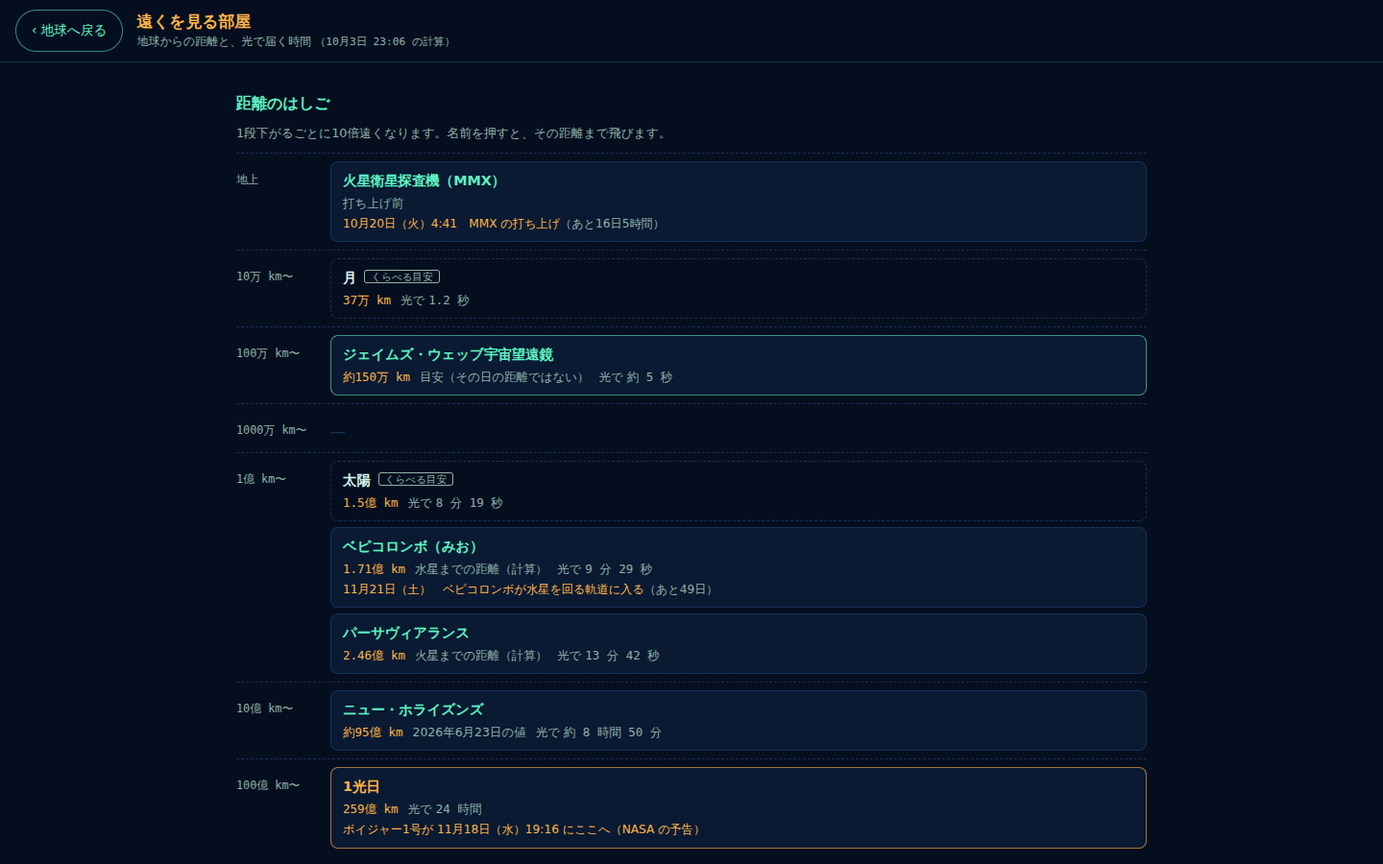
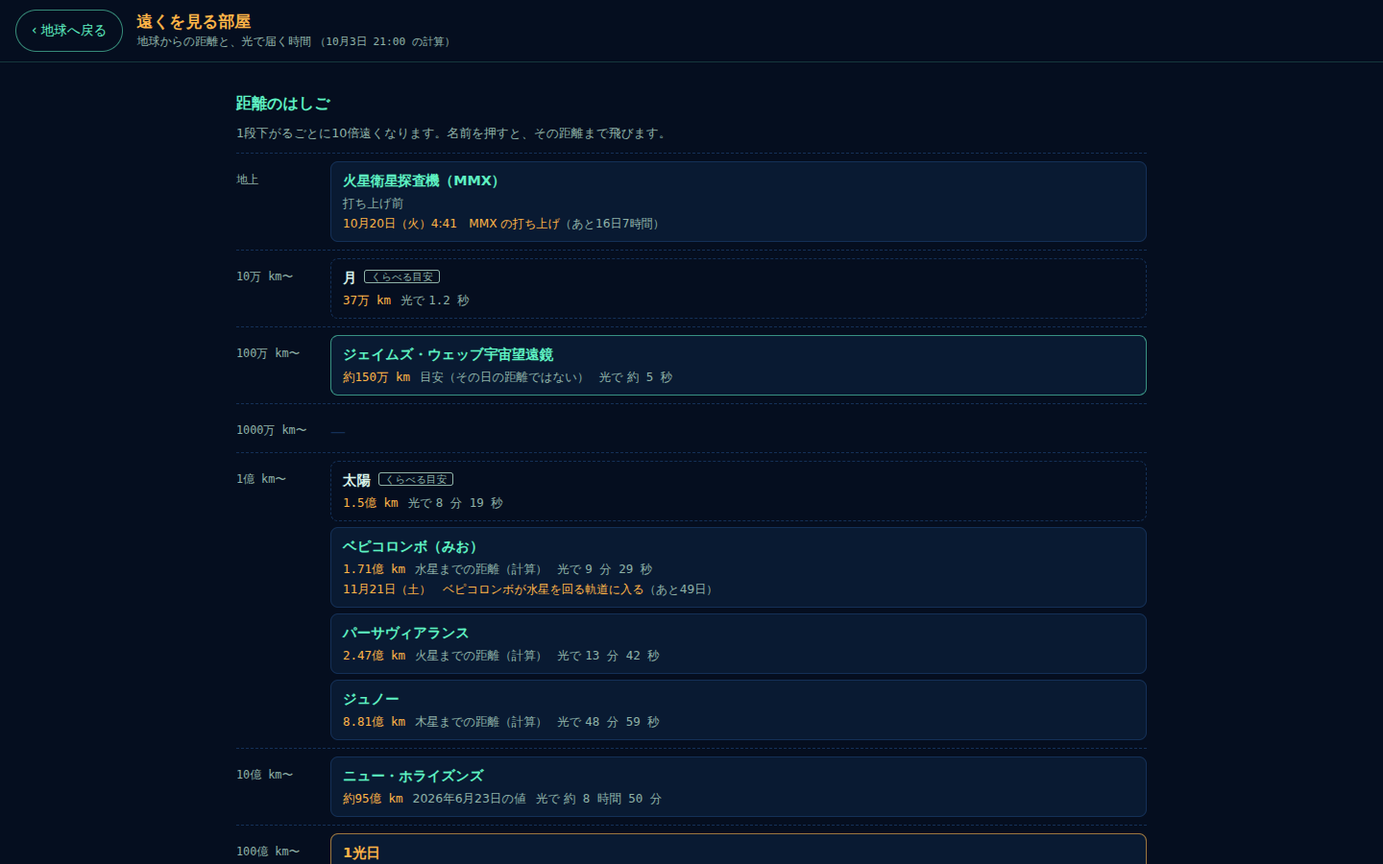
遠くを見る部屋：ジュノーのカードを追加（C17 を照合）、公式3Dモデルの調査（C18）を照合して Codex への模型の依頼文を作成
C17（ジュノー）
- 報告を research/chappy/2026-10-04-c17-juno.md に保存。引用5件を公式ページで照合し、すべて一致
- 入れたもの：curation/probes/juno.json
  - 状態＝運用中：2026-05-01 に衛星テーベを撮影した記録（NASA Photojournal、5/5 公開）
  - いま・任務・運用・打ち上げ・距離：NASA のジュノーのページ（2026-07-04 の更新で「木星を回って10年」）
  - 距離は木星までの距離（ブラウザで計算）
- 入れなかったもの
  - 運用を終える予定の日（公式のページは「2025年9月まで」のままで、新しい日付が見つからない）
  - NASA Astrobiology のページ（日付のない説明なので、運用中の根拠に使わない）
- web/data/probes.json を更新（npm run sync:web）

C18（公式3Dモデル）
- 報告を research/chappy/2026-10-04-c18-3d-models.md に保存。引用21件・ファイルの大きさ・日付を照合し、すべて一致
- 報告にない点
  - NASA の利用の決まりは、3Dモデルのデータも対象にしている（教育・情報の Web やシミュレーションに使ってよい）
  - ESA の「3D spacecraft model」は、外のサイトで見るだけのもの
- 機体ごとの判断の案：10機とも Codex にコードで作ってもらう
  - 依頼文：prompts/src/codex-far-room-models.md → prompts/codex-far-room-models.md
  - 公式の3Dファイルは使わない。ロゴ・旗・文字なし
- カードには入れない（報告のカードJSONは「なし」）

記録
- research/verification/2026-10-04-c17-c18.md
- タスク013・ロードマップ・far-room-feel.md §7-4・§7-6
- 画面：はしご（PC）を差し替え、ジュノーのカード（スマホ）を追加

Claude-Session: https://claude.ai/code/session_018QcvrPpxiBmPj3b7sKfVgy

diff --git a/prompts/codex-far-room-models.md b/prompts/codex-far-room-models.md
@@ -1,0 +1,146 @@
+<!-- このファイルは scripts/build-prompts.mjs が作る。直接編集せず prompts/src/ を直す -->
+
+# 依頼：VOYASCOPE「遠くを見る部屋」の探査機の模型（9つ・three.js のコードで作る）
+
+## どんなアプリか
+
+VOYASCOPE は、地球のまわりの衛星・宇宙船の「いま」を、観測端末風の画面で見る日本語の Web アプリです。対象は中高生で、非公式のファンメイド作品です。
+
+「遠くを見る部屋」では、地球から探査機のところまで、光より速く飛んでいきます。天体のまわりではスイングバイをして、探査機のすぐそばを通ります。そのときに、探査機の模型を大きく見せます。
+
+いまの試作には、模型が4つあります（ウェッブ・ベピコロンボ・ニュー・ホライズンズ・パーサヴィアランス）。どれも形が大まかです。今回は、**10機ぶんの模型を、ひと目でどの機体か分かる細かさで**作ってほしいです。
+
+## 作る模型（9つ）
+
+ボイジャー1号と2号は同じ形なので、模型は1つです。
+「分かっていること」は公式のページに書かれていることです。比率はこれに合わせてください。書いていないところは、公式のページの写真を見て決めてください。
+
+| キー | 画面の名前 | 形を見る公式のページ | 分かっていること（出典） |
+|---|---|---|---|
+| `jwst` | ジェイムズ・ウェッブ宇宙望遠鏡 | https://science.nasa.gov/mission/webb/ ・ https://science.nasa.gov/3d-resources/james-webb-space-telescope-a/ | 主鏡は 6.5m（3D のページ）。大きな、いくつもに分かれた、金色の鏡。5層の日よけ（ミッションのページ） |
+| `parker-solar-probe` | パーカー・ソーラー・プローブ | https://science.nasa.gov/mission/parker-solar-probe/ ・ https://science.nasa.gov/resource/parker-solar-probe-3d-model/ | 太陽の熱から守る、厚さ11.43cm の炭素の盾（ミッションのページ） |
+| `bepicolombo` | ベピコロンボ（みお） | https://www.esa.int/Science_Exploration/Space_Science/BepiColombo/Latest_updates_BepiColombo_s_arrival_at_Mercury ・ https://www.esa.int/ESA_Multimedia/Images/2018/10/BepiColombo_arrival_at_Mercury_timeline ・ https://www.esa.int/Science_Exploration/Space_Science/BepiColombo/BepiColombo_factsheet ・ https://mio.isas.jaxa.jp/mission/ | **いまの姿**：運ぶための推進部（MTM）は 2026年9月3日に切り離した。いまは ESA の周回機（MPO）と JAXA の「みお」が重なっている。12月9〜10日に MPO とみおが分かれる（最新情報のページ）。みおは日よけ（MOSIF）の中に入っている（到着の時刻表のページ）。大きさ：MPO は 2.4×2.2×1.7m、放熱板の幅 3.7m、太陽電池の翼（広げたとき）7.5m。みおは直径1.8m・高さ1.1m（factsheet） |
+| `perseverance` | パーサヴィアランス | https://science.nasa.gov/mission/mars-2020-perseverance/ ・ https://science.nasa.gov/3d-resources/mars-2020-perseverance-rover/ | 火星の地面を走るローバー。マストの根元にアメリカの旗の板がある → **旗は付けない**。ヘリコプター（インジェニュイティ）は「火星までの旅のあいだ、おなかに付けていた」とある → **付けない** |
+| `mmx` | 火星衛星探査機（MMX） | https://www.mmx.jaxa.jp/ ・ https://www.mmx.jaxa.jp/gallery/ | 往路・探査・復路の3つのモジュールでできている（MMX のページ） |
+| `hayabusa2` | はやぶさ２ | https://www.isas.jaxa.jp/missions/spacecraft/current/hayabusa2 ・ https://www.hayabusa2.jaxa.jp/ | 2020年12月に地球へ戻ったあと、カプセルを切り離して、また旅に出た → **カプセルは付けない**（ISAS のページ） |
+| `juno` | ジュノー | https://science.nasa.gov/mission/juno/ ・ https://science.nasa.gov/resource/juno-3d-model/ | 六角形の本体（高さ・幅とも約3.5m）。太陽電池の翼が3枚で、それぞれ本体から約9m。全体の幅は20m より大きい。「3枚羽の扇風機」のような形。1分に2回まわっている（ミッションのページ） |
+| `new-horizons` | ニュー・ホライズンズ | https://science.nasa.gov/mission/new-horizons/ ・ https://science.nasa.gov/resource/new-horizons-3d-model/ | 円筒形の原子力電池（RTG）を1つ持っている（ミッションのページ） |
+| `voyager` | ボイジャー1号・2号 | https://science.nasa.gov/mission/voyager/voyager-1/ ・ https://science.nasa.gov/resource/voyager-3d-model/ | 原子力電池（RTG）3つを、ブーム（腕）に重ねて並べている（ボイジャー1号のページ）。ゴールデンレコードを付けるときは、金色の円盤だけにする（絵や文字は描かない） |
+
+## 作り方の決まり（必ず守る）
+
+### 権利と表示
+
+- **公式の3Dファイルを使わない**：GLB・glTF・USDZ・STL・BDS などを、読み込まない・変換しない・形をなぞらない
+- **図面を写さない**：MMX の簡易6面図などの、寸法や線を写し取らない
+- 公式の写真・説明・回して見られるページは、おおまかな形と色の手がかりとして**見るだけ**。箱・円柱・板・皿などの基本の形を組み合わせて、自分で作る
+- **ロゴ・旗・記章・ミッションのマーク・文字・数字を付けない**。NASA・ESA・JAXA・メーカーなど、どの組織のものも
+- 見たページの URL を、模型ごとに `userData.refs` に入れる。ページを見られなかったときは、`userData.refs` を空にして、説明にそう書く
+- 想像で足したところ（写真で見えなかった裏側など）は、`userData.guessed` に短く書く
+- 「公式の模型」「NASA 公認」と思わせる書き方をしない
+
+### 形と大きさ
+
+- **three.js r128 の本体の機能だけ**で作る。`examples/` にあるもの（GLTFLoader・BufferGeometryUtils・RoundedBoxGeometry など）は使わない
+- 形を作る関数は、`THREE` を引数で受け取る。`<script>` で読む three.min.js でも、モジュール版でも動くように
+- 向き：+Y が上。いちばん見栄えのする斜めの向きを、`userData.pose = [x, y, z]`（ラジアン）に入れる
+- 大きさ：模型の中心を原点にして、いちばん長い辺が 2 になるようにする（アプリの側でも、もう一度そろえる）
+- 比率：上の表の大きさに合わせる。表にないところは、写真の見た目に合わせる
+- 動かす部分
+  - ジュノー：回る軸を `userData.spinAxis`（`[x, y, z]`）に入れる。回すのはアプリの側でする
+  - ベピコロンボ：`userData.parts = { mpo, mosif, mio }`（それぞれ `THREE.Group`）。いまの姿は、MOSIF の中にみおが入って、MPO と重なった形。分かれたあとの見せ方は、そのときに公式の発表を確かめてアプリの側で決めるので、3つを別々に動かせるようにしておく
+  - MMX：`userData.parts = { outbound, explore, return }`（往路・探査・復路のモジュール。それぞれ `THREE.Group`）
+
+### 見た目
+
+- 色はアプリに合わせる：navy `#050e1f`〜`#143057`・mint `#5ef2c2`・amber `#ffb547`・text `#d9f4ea`・text-dim `#8fb3a8`
+- **共通の材質**：`makeKit(THREE)` で1回だけ作り、9つの模型で使い回す（模型ごとに材質を作らない）
+  - 金（断熱材。細かいしわ）・銀（金属）・白・黒・濃い紺・太陽電池（濃い青のセル）・鏡（ウェッブの主鏡。金の反射）
+  - テクスチャは、ブラウザの中で canvas に描く小さなもの（128×128 まで）だけ。画像のファイルは使わない
+- 光：アプリと同じ当て方で確かめる（確認用のページにも、この設定を入れる）
+  - renderer：`outputEncoding = THREE.sRGBEncoding`・`toneMapping = THREE.ACESFilmicToneMapping`・`toneMappingExposure = 1.1`
+  - カメラに付ける光：環境光 `0xd9f4ea` 強さ 0.24。平行光 `0xd9f4ea` 1.7（位置 -3, 5, 7）・`0xffb547` 1.5（5, 2, -4）・`0x5ef2c2` 0.25（-6, -2, 1）
+  - 背景：`#050e1f`
+- いまの試作の模型は、リポジトリの `docs/design/far-room-visual-merged.html` の `makeKit`・`webbModel` などにある。見られるときは参考にしてよい（見られなくても作れるように、決まりはこの依頼文に全部書いた）
+
+### 軽さ（スマホで1秒60コマ）
+
+- 三角形：1つの模型で 30,000 まで（目安は 10,000〜20,000）
+- 部品（Mesh）の数：1つの模型で 120 まで。同じ部品がたくさんあるとき（太陽電池のセル・鏡のかけら・車輪など）は `InstancedMesh` を使う
+- ファイルの大きさ：9つ合わせて 60KB まで（gzip で 18KB くらい）
+- 作る時間：PC で1つ 15ms まで（確認用のページに表示する）
+- 使い終わった模型を片付ける関数 `disposeModel(group)`。形（geometry）だけを消し、共通の材質は消さない
+
+## 渡してほしいもの
+
+1. **`far-room-models.js`**（ES モジュール。1ファイル）
+
+   ```js
+   export function makeKit(THREE) { /* 共通の材質 */ }
+   export const MODELS = {
+     jwst, "parker-solar-probe": parker, bepicolombo, perseverance, mmx, hayabusa2, juno, "new-horizons": newHorizons, voyager,
+   }; // それぞれ (THREE, kit) => THREE.Group。group.userData に pose・refs・guessed（ジュノーは spinAxis、ベピコロンボと MMX は parts も）
+   export function disposeModel(group) { /* 形だけ消す */ }
+   ```
+
+   ボイジャー1号・2号は、どちらも `MODELS.voyager` を使う
+
+2. **`far-room-models.html`**（確認用。1つの HTML）
+   - 読むのは three.js r128（`https://cdnjs.cloudflare.com/ajax/libs/three.js/r128/three.min.js`）と `far-room-models.js` だけ
+   - 1つずつ大きく表示して、ゆっくり回す（動きを減らす設定 prefers-reduced-motion のときは回さない）
+   - 「前へ」「次へ」のボタン（44px 以上）と、← → キーで切り替える
+   - 画面に出すもの：画面の名前（上の表）・三角形の数・部品の数・作る時間
+   - 「形の目安です。公式の模型ではありません」と「※非公式ファンメイド作品です。宇宙機関・運用者とは関係ありません」を書く
+   - スマホ（390×844）と PC（1440×900）で崩れない。横にスクロールしない
+   - ローカルのサーバー（`npx serve` など）で開く前提でよい（モジュールはファイルを直接開くと読めないため）。開き方を説明に書く
+
+3. **説明**（日本語で15行くらい）：模型ごとに、何を手がかりにしたか・想像で足したところ・三角形の数
+
+## 比べ方（オーナーがスマホで見て決める）
+
+- ひと目で、どの機体か分かるか
+- 細かさ（いまの試作の4つより細かいか）
+- 9つの見た目がそろっているか
+- 軽さ（三角形・部品の数・作る時間）
+
+## プロジェクトのルール（RULES.md 全文）
+
+模型でも、このルールに沿ってください（とくに 1 の「公認を連想させるロゴや表現は使わない」）。
+
+# VOYASCOPE ルール
+
+このリポジトリに関わる人とAIは、作業前に必ずこのファイルを読むこと。
+AIへの依頼プロンプトには、冒頭にこのファイルを毎回貼ること。
+
+## 5つのルール
+
+1. **ファンメイドであることを明記する**
+   本アプリは非公式のファンメイド作品であり、JAXA・NASAをはじめとする宇宙機関・運用者とは関係がない。公認を連想させるロゴや表現は使わない。
+
+2. **軍事目的での使用を禁止する**
+   ライセンスで定める（`LICENSE_DRAFT.md` 参照、条文は確認後に確定）。
+
+3. **推測で業務内容や個人的なことを書かない**
+   カードの事実項目には、すべて出典URL（`source`）を付ける。出典のない記述はCIで落とす。任務が公表されていない機体は「非公開」（`undisclosed: true`）とし、推測で埋めない。
+
+4. **軍が関わる機体も、公開情報の範囲で表示する**
+   運用主体は事実として記載する。それを見て何を感じるかは、見る人に委ねる。
+
+5. **悪用が確認されたら公開を停止する**
+   このアプリを使った軍事行為、または誰かに被害をもたらす行為が確認された場合は、公開を停止する。
+
+## 人物の扱い（細則）
+
+- 載せるのは、公式プロフィールにある事実（経歴・役職・飛行記録）だけ
+- 家族のこと、私生活、個人SNSの投稿は扱わない
+- 能力値の格付けはしない。記録の数値は「実績バッジ」としてのみ見せる
+- 本人が言っていないセリフは作らない。キャッチコピーは機体にだけ付ける
+- 顔写真は当面使わない。写真は公式ページへのリンク先で見てもらう
+- 亡くなった方や事故に関わる記録は、ゲーム的な演出から外し、`memorial` として敬意をもって扱う
+
+## 情報源の優先順位
+
+公式発表（機関・運用者）＞ 公的データ（CelesTrak など）＞ 報道 ＞ SNS
+
+- SNS（Grok経由の速報を含む）は、更新のきっかけとしてだけ使う。公式ソースで確認できるまでカードには入れない
+- 情報が食い違ったら、公式ソースを優先する

diff --git a/prompts/src/codex-far-room-models.md b/prompts/src/codex-far-room-models.md
@@ -1,0 +1,107 @@
+# 依頼：VOYASCOPE「遠くを見る部屋」の探査機の模型（9つ・three.js のコードで作る）
+
+## どんなアプリか
+
+VOYASCOPE は、地球のまわりの衛星・宇宙船の「いま」を、観測端末風の画面で見る日本語の Web アプリです。対象は中高生で、非公式のファンメイド作品です。
+
+「遠くを見る部屋」では、地球から探査機のところまで、光より速く飛んでいきます。天体のまわりではスイングバイをして、探査機のすぐそばを通ります。そのときに、探査機の模型を大きく見せます。
+
+いまの試作には、模型が4つあります（ウェッブ・ベピコロンボ・ニュー・ホライズンズ・パーサヴィアランス）。どれも形が大まかです。今回は、**10機ぶんの模型を、ひと目でどの機体か分かる細かさで**作ってほしいです。
+
+## 作る模型（9つ）
+
+ボイジャー1号と2号は同じ形なので、模型は1つです。
+「分かっていること」は公式のページに書かれていることです。比率はこれに合わせてください。書いていないところは、公式のページの写真を見て決めてください。
+
+| キー | 画面の名前 | 形を見る公式のページ | 分かっていること（出典） |
+|---|---|---|---|
+| `jwst` | ジェイムズ・ウェッブ宇宙望遠鏡 | https://science.nasa.gov/mission/webb/ ・ https://science.nasa.gov/3d-resources/james-webb-space-telescope-a/ | 主鏡は 6.5m（3D のページ）。大きな、いくつもに分かれた、金色の鏡。5層の日よけ（ミッションのページ） |
+| `parker-solar-probe` | パーカー・ソーラー・プローブ | https://science.nasa.gov/mission/parker-solar-probe/ ・ https://science.nasa.gov/resource/parker-solar-probe-3d-model/ | 太陽の熱から守る、厚さ11.43cm の炭素の盾（ミッションのページ） |
+| `bepicolombo` | ベピコロンボ（みお） | https://www.esa.int/Science_Exploration/Space_Science/BepiColombo/Latest_updates_BepiColombo_s_arrival_at_Mercury ・ https://www.esa.int/ESA_Multimedia/Images/2018/10/BepiColombo_arrival_at_Mercury_timeline ・ https://www.esa.int/Science_Exploration/Space_Science/BepiColombo/BepiColombo_factsheet ・ https://mio.isas.jaxa.jp/mission/ | **いまの姿**：運ぶための推進部（MTM）は 2026年9月3日に切り離した。いまは ESA の周回機（MPO）と JAXA の「みお」が重なっている。12月9〜10日に MPO とみおが分かれる（最新情報のページ）。みおは日よけ（MOSIF）の中に入っている（到着の時刻表のページ）。大きさ：MPO は 2.4×2.2×1.7m、放熱板の幅 3.7m、太陽電池の翼（広げたとき）7.5m。みおは直径1.8m・高さ1.1m（factsheet） |
+| `perseverance` | パーサヴィアランス | https://science.nasa.gov/mission/mars-2020-perseverance/ ・ https://science.nasa.gov/3d-resources/mars-2020-perseverance-rover/ | 火星の地面を走るローバー。マストの根元にアメリカの旗の板がある → **旗は付けない**。ヘリコプター（インジェニュイティ）は「火星までの旅のあいだ、おなかに付けていた」とある → **付けない** |
+| `mmx` | 火星衛星探査機（MMX） | https://www.mmx.jaxa.jp/ ・ https://www.mmx.jaxa.jp/gallery/ | 往路・探査・復路の3つのモジュールでできている（MMX のページ） |
+| `hayabusa2` | はやぶさ２ | https://www.isas.jaxa.jp/missions/spacecraft/current/hayabusa2 ・ https://www.hayabusa2.jaxa.jp/ | 2020年12月に地球へ戻ったあと、カプセルを切り離して、また旅に出た → **カプセルは付けない**（ISAS のページ） |
+| `juno` | ジュノー | https://science.nasa.gov/mission/juno/ ・ https://science.nasa.gov/resource/juno-3d-model/ | 六角形の本体（高さ・幅とも約3.5m）。太陽電池の翼が3枚で、それぞれ本体から約9m。全体の幅は20m より大きい。「3枚羽の扇風機」のような形。1分に2回まわっている（ミッションのページ） |
+| `new-horizons` | ニュー・ホライズンズ | https://science.nasa.gov/mission/new-horizons/ ・ https://science.nasa.gov/resource/new-horizons-3d-model/ | 円筒形の原子力電池（RTG）を1つ持っている（ミッションのページ） |
+| `voyager` | ボイジャー1号・2号 | https://science.nasa.gov/mission/voyager/voyager-1/ ・ https://science.nasa.gov/resource/voyager-3d-model/ | 原子力電池（RTG）3つを、ブーム（腕）に重ねて並べている（ボイジャー1号のページ）。ゴールデンレコードを付けるときは、金色の円盤だけにする（絵や文字は描かない） |
+
+## 作り方の決まり（必ず守る）
+
+### 権利と表示
+
+- **公式の3Dファイルを使わない**：GLB・glTF・USDZ・STL・BDS などを、読み込まない・変換しない・形をなぞらない
+- **図面を写さない**：MMX の簡易6面図などの、寸法や線を写し取らない
+- 公式の写真・説明・回して見られるページは、おおまかな形と色の手がかりとして**見るだけ**。箱・円柱・板・皿などの基本の形を組み合わせて、自分で作る
+- **ロゴ・旗・記章・ミッションのマーク・文字・数字を付けない**。NASA・ESA・JAXA・メーカーなど、どの組織のものも
+- 見たページの URL を、模型ごとに `userData.refs` に入れる。ページを見られなかったときは、`userData.refs` を空にして、説明にそう書く
+- 想像で足したところ（写真で見えなかった裏側など）は、`userData.guessed` に短く書く
+- 「公式の模型」「NASA 公認」と思わせる書き方をしない
+
+### 形と大きさ
+
+- **three.js r128 の本体の機能だけ**で作る。`examples/` にあるもの（GLTFLoader・BufferGeometryUtils・RoundedBoxGeometry など）は使わない
+- 形を作る関数は、`THREE` を引数で受け取る。`<script>` で読む three.min.js でも、モジュール版でも動くように
+- 向き：+Y が上。いちばん見栄えのする斜めの向きを、`userData.pose = [x, y, z]`（ラジアン）に入れる
+- 大きさ：模型の中心を原点にして、いちばん長い辺が 2 になるようにする（アプリの側でも、もう一度そろえる）
+- 比率：上の表の大きさに合わせる。表にないところは、写真の見た目に合わせる
+- 動かす部分
+  - ジュノー：回る軸を `userData.spinAxis`（`[x, y, z]`）に入れる。回すのはアプリの側でする
+  - ベピコロンボ：`userData.parts = { mpo, mosif, mio }`（それぞれ `THREE.Group`）。いまの姿は、MOSIF の中にみおが入って、MPO と重なった形。分かれたあとの見せ方は、そのときに公式の発表を確かめてアプリの側で決めるので、3つを別々に動かせるようにしておく
+  - MMX：`userData.parts = { outbound, explore, return }`（往路・探査・復路のモジュール。それぞれ `THREE.Group`）
+
+### 見た目
+
+- 色はアプリに合わせる：navy `#050e1f`〜`#143057`・mint `#5ef2c2`・amber `#ffb547`・text `#d9f4ea`・text-dim `#8fb3a8`
+- **共通の材質**：`makeKit(THREE)` で1回だけ作り、9つの模型で使い回す（模型ごとに材質を作らない）
+  - 金（断熱材。細かいしわ）・銀（金属）・白・黒・濃い紺・太陽電池（濃い青のセル）・鏡（ウェッブの主鏡。金の反射）
+  - テクスチャは、ブラウザの中で canvas に描く小さなもの（128×128 まで）だけ。画像のファイルは使わない
+- 光：アプリと同じ当て方で確かめる（確認用のページにも、この設定を入れる）
+  - renderer：`outputEncoding = THREE.sRGBEncoding`・`toneMapping = THREE.ACESFilmicToneMapping`・`toneMappingExposure = 1.1`
+  - カメラに付ける光：環境光 `0xd9f4ea` 強さ 0.24。平行光 `0xd9f4ea` 1.7（位置 -3, 5, 7）・`0xffb547` 1.5（5, 2, -4）・`0x5ef2c2` 0.25（-6, -2, 1）
+  - 背景：`#050e1f`
+- いまの試作の模型は、リポジトリの `docs/design/far-room-visual-merged.html` の `makeKit`・`webbModel` などにある。見られるときは参考にしてよい（見られなくても作れるように、決まりはこの依頼文に全部書いた）
+
+### 軽さ（スマホで1秒60コマ）
+
+- 三角形：1つの模型で 30,000 まで（目安は 10,000〜20,000）
+- 部品（Mesh）の数：1つの模型で 120 まで。同じ部品がたくさんあるとき（太陽電池のセル・鏡のかけら・車輪など）は `InstancedMesh` を使う
+- ファイルの大きさ：9つ合わせて 60KB まで（gzip で 18KB くらい）
+- 作る時間：PC で1つ 15ms まで（確認用のページに表示する）
+- 使い終わった模型を片付ける関数 `disposeModel(group)`。形（geometry）だけを消し、共通の材質は消さない
+
+## 渡してほしいもの
+
+1. **`far-room-models.js`**（ES モジュール。1ファイル）
+
+   ```js
+   export function makeKit(THREE) { /* 共通の材質 */ }
+   export const MODELS = {
+     jwst, "parker-solar-probe": parker, bepicolombo, perseverance, mmx, hayabusa2, juno, "new-horizons": newHorizons, voyager,
+   }; // それぞれ (THREE, kit) => THREE.Group。group.userData に pose・refs・guessed（ジュノーは spinAxis、ベピコロンボと MMX は parts も）
+   export function disposeModel(group) { /* 形だけ消す */ }
+   ```
+
+   ボイジャー1号・2号は、どちらも `MODELS.voyager` を使う
+
+2. **`far-room-models.html`**（確認用。1つの HTML）
+   - 読むのは three.js r128（`https://cdnjs.cloudflare.com/ajax/libs/three.js/r128/three.min.js`）と `far-room-models.js` だけ
+   - 1つずつ大きく表示して、ゆっくり回す（動きを減らす設定 prefers-reduced-motion のときは回さない）
+   - 「前へ」「次へ」のボタン（44px 以上）と、← → キーで切り替える
+   - 画面に出すもの：画面の名前（上の表）・三角形の数・部品の数・作る時間
+   - 「形の目安です。公式の模型ではありません」と「※非公式ファンメイド作品です。宇宙機関・運用者とは関係ありません」を書く
+   - スマホ（390×844）と PC（1440×900）で崩れない。横にスクロールしない
+   - ローカルのサーバー（`npx serve` など）で開く前提でよい（モジュールはファイルを直接開くと読めないため）。開き方を説明に書く
+
+3. **説明**（日本語で15行くらい）：模型ごとに、何を手がかりにしたか・想像で足したところ・三角形の数
+
+## 比べ方（オーナーがスマホで見て決める）
+
+- ひと目で、どの機体か分かるか
+- 細かさ（いまの試作の4つより細かいか）
+- 9つの見た目がそろっているか
+- 軽さ（三角形・部品の数・作る時間）
+
+## プロジェクトのルール（RULES.md 全文）
+
+模型でも、このルールに沿ってください（とくに 1 の「公認を連想させるロゴや表現は使わない」）。
+

diff --git a/docs/tasks/013-far-room.md b/docs/tasks/013-far-room.md
@@ -1,7 +1,7 @@
 # タスク013：遠くを見る部屋（M7 v0）
 
 ロードマップ：[`docs/roadmap.md`](../roadmap.md) の M7 v0。体感の設計：[`docs/design/far-room-feel.md`](../design/far-room-feel.md)（2026-10-02 オーナー決定：「光になって飛ぶ」を見どころに、下へスクロールすると「距離のはしご」。下に縮尺の変わる物差し）。
-今回は、JPL の許可が要らない部分と、ジュノー以外で作る（2026-10-03 オーナー）。
+今回は、JPL の許可が要らない部分と、ジュノー以外で作る（2026-10-03 オーナー）。ジュノーは C17 で運用中と確かめて、2026-10-04 に足した。
 
 ## 作ったもの
 
@@ -35,7 +35,8 @@
 ## データ
 
 - `schema/probe.schema.json`：探査機カードの形（新規）。`distance` の書き方は5つ：`planet`（いる惑星までの距離を計算。惑星にいることを確かめた出典つき）／`typical`（公式の目安の値）／`dated`（日付つきの公式の値）／`pending`（準備中）／`on_earth`（打ち上げ前）。キャッチコピーなどの創作の項目は持たない
-- `curation/probes/`：9機（新規）。C16（チャッピー）の報告を Claude Code が出典のページと照合し（`research/verification/2026-10-03-c16.md`）、カードの文は出典に書かれていることだけで書いた
+- `curation/probes/`：10機（新規）。C16（チャッピー）の報告を Claude Code が出典のページと照合し（`research/verification/2026-10-03-c16.md`）、カードの文は出典に書かれていることだけで書いた
+  - ジュノー（2026-10-04 に追加）：C17 の報告を照合した（`research/verification/2026-10-04-c17-c18.md`）。状態は、2026年5月1日に衛星テーベを撮った記録（NASA Photojournal）。いま・任務などは、NASA のジュノーのページ（2026-07-04 の更新で「木星を回って10年」）。距離は木星までの距離（計算）。運用を終える予定の日は書かない（公式のページは「2025年9月まで」のままで、新しい日付が見つからない）
   - C16 の報告から直したもの：ウェッブの運用機関（報告は STScI の求人のページが出典だった → NASA のページの「Partners NASA/ESA/CSA」）、ニュー・ホライズンズの値の日付（報告の 6/24 は写真の説明の日付。本文では、冬眠から目覚めたと確かめた 6/23 に同じ「約95億km」と書いている → 6/23 にした）、パーサヴィアランスの運用（JPL の記事の「JPL … manages operations of the Perseverance rover」）
   - 報告にあった次の予定（`next_event`）は、すでにある予定（`curation/events`）の id で指す（ベピコロンボ2件・はやぶさ２・MMX・ボイジャー1号）
 - `scripts/validate.mjs`：探査機（`probes`）を足した。指している予定がないもの、打ち上げ前なのに地上以外の距離を書いたものを落とす
@@ -43,7 +44,7 @@
 
 ## 入れなかったもの・あとでやること
 
-- **ジュノー**：2026年も運用中だという、日付の入った公式の記述が見つからない（C16 の照合）→ C17 をチャッピーに依頼中。確かめられたら足す（距離は木星の位置から計算できる）
+- ~~**ジュノー**：2026年も運用中だという、日付の入った公式の記述が見つからない（C16 の照合）~~ → C17 で確かめて、2026-10-04 に足した（上の「作ったもの」）
 - **パーカー・はやぶさ２・ボイジャー1号・2号のいまの距離**：JPL Horizons の数値を自分のサイトに出すには許可が要る（C14）。オーナーが問い合わせ済み（2026-10-03）。10/17 までに返事がなければ代わりを決める
 - ボイジャー1号・2号の公式ページにある古い日付つきの値（2024年・2017年）は使わない（いまの距離と誤解されるため）
 - 惑星（木星・土星など）の目印は置かない（イメージ図どおり、くらべる目安は月と太陽）
@@ -69,11 +70,12 @@
 - ブラウザ（Chromium、ソフトウェア描画）：PC 1440×900・スマホ 390×844 で、開く・はしごから飛ぶ（月・ウェッブ・太陽・火星・ニュー・ホライズンズ・1光日。ちょうどその距離に着く）・ホイールとスワイプで戻る・カードを開く・Esc でカードだけ閉じる・「戻る」で部屋を閉じる・閉じたら地球の描画が戻る・`#far` で開く・動きを減らす設定。エラーなし
 - 部屋が開くまで 0.3〜0.5秒（手元のサーバー）
 - 画面：[`docs/screenshots/far-room/`](../screenshots/far-room/)（PC 1440×900・スマホ 390×844。入口・出発・ワープ・1光日・はしご・カード）
+- ジュノーを足したあと（2026-10-04）：はしごの「1億 km〜」の段（パーサヴィアランスの下。2026-10-03 21:00 で約8.8億 km、光で約49分）・はしごから飛ぶ・飛ぶ画面のカード・くわしいカード（PC・スマホ）。エラーなし、横のはみ出しなし。テスト 86件・検証（36枚）・読み込み量（部屋は 42KB のまま）も通る。画面：`pc-5-ladder.png` を差し替え、`sp-6-card-juno.png` を追加
 
 ## 決めてほしいこと（オーナー）
 
 1. **さわり心地**：はじく強さと止まるまでの時間（試作と同じ、約1秒で止まる）。通過の演出はカードだけ（音・振動なし）でよいか
 2. **入口**：場所（PC は表示切替の右、スマホは表示切替の下の右）と色（アンバー）
 3. **はしごの向き**：近いものを上にした（下へ行くほど遠い。試作 A と同じ。イメージ図は遠いものが上）
-4. **ジュノー**：C17 の結果で足すか、木星へ向かっている別の探査機（JUICE・エウロパ・クリッパー）に替えるか
+4. ~~**ジュノー**：C17 の結果で足すか、木星へ向かっている別の探査機（JUICE・エウロパ・クリッパー）に替えるか~~ → 運用中と確かめられたので足した（2026-10-04）
 5. **JPL の返事がないとき**（10/17）の代わり

diff --git a/prompts/README.md b/prompts/README.md
@@ -7,6 +7,7 @@
 | `chappy-research.md` | チャッピー（ChatGPT） | C1〜C18：一次ソース調査（出典URL＋原文の引用つき） |
 | `grok-news.md` | Grok | G1〜G4：速報（公式URLのあり・なしを区別）。G4 は「次の出来事」の延期・日付の変更 |
 | `codex-far-room-visual.md` | Codex（ほかの AI でも可） | 遠くを見る部屋の見た目の試作（1回だけ。Claude Code の試作と同じ条件で比べる。事実は依頼文の固定データだけを使わせる） |
+| `codex-far-room-models.md` | Codex | 遠くを見る部屋の探査機の模型（10機ぶん・9つ）。three.js のコードで形を作る。公式の3Dファイルは使わない（C18 の結果、2026-10-04） |
 
 ## 使い方
 
@@ -17,4 +18,4 @@
 
 ## 編集するとき
 
-`chappy-research.md`・`grok-news.md`・`codex-far-room-visual.md` は生成物。`prompts/src/` を直して `npm run build:prompts` を実行する（RULES.md を変えたときも同じ）。
+`chappy-research.md`・`grok-news.md`・`codex-far-room-visual.md`・`codex-far-room-models.md` は生成物。`prompts/src/` を直して `npm run build:prompts` を実行する（RULES.md を変えたときも同じ）。
